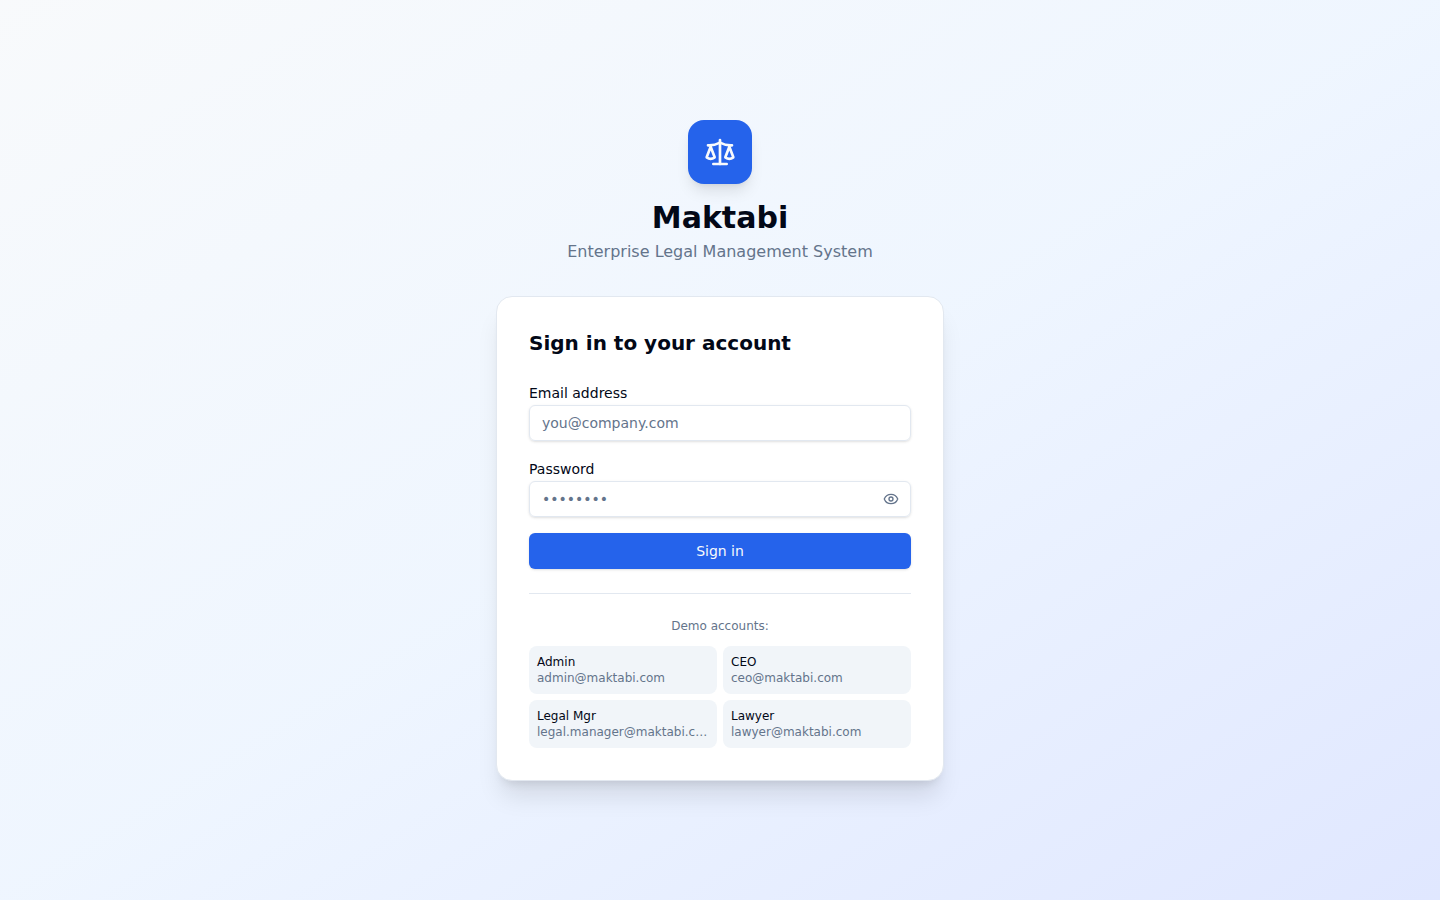
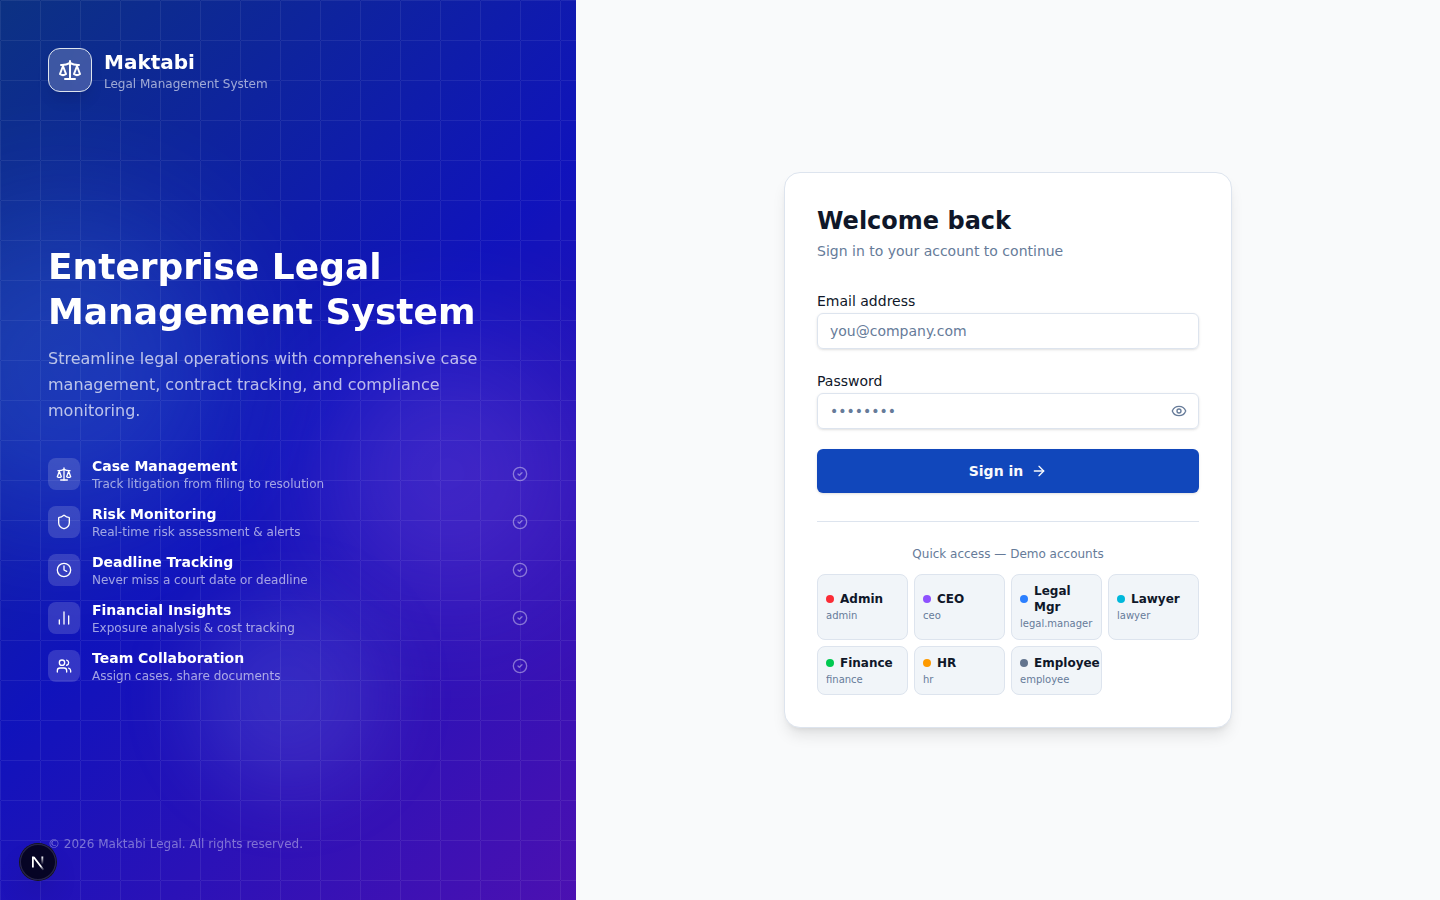
Capture screenshots of all 18 page UIs and update documentation
- Replace 10 old screenshots with 18 comprehensive screenshots
- Add screenshots for: investigations/new, consultations/new, contracts/new,
  financial/new, calendar, brands, notifications, profile
- Rename screenshots with consistent numbering (01-18)
- Update README.md screenshot references
- Add docs/SCREENSHOTS.md with detailed page descriptions

Agent-Logs-Url: https://github.com/MUSTAQ-AHAMMAD/maktabi/sessions/12325ed6-12a1-4cc4-8910-ca32c1b341f8

diff --git a/docs/SCREENSHOTS.md b/docs/SCREENSHOTS.md
@@ -1,0 +1,150 @@
+# Maktabi — UI Screenshots
+
+Complete visual reference for every page in the Maktabi Legal Management System.
+
+> **Note:** Screenshots captured at 1440×900 viewport. Pages that fetch data from
+> the backend API may show empty states when the backend is not running.
+
+---
+
+## 1. Login Page (`/login`)
+
+![Login Page](screenshots/01-login.png)
+
+The login screen features the Maktabi branding on the left with feature highlights (Case Management, Risk Monitoring, Deadline Tracking, Financial Insights, Team Collaboration). The right panel contains email/password fields and quick-access demo account buttons for all roles.
+
+---
+
+## 2. Dashboard (`/dashboard`)
+
+![Dashboard](screenshots/02-dashboard.png)
+
+The role-based dashboard shows KPI cards (Total Cases, Active Cases, Contracts, Pending Consultations), Financial Exposure summary, and Risk Distribution chart. Data varies by user role.
+
+---
+
+## 3. Litigation — Case List (`/litigation`)
+
+![Litigation Cases](screenshots/03-litigation-list.png)
+
+Browse, search, and filter all litigation cases with columns for case number, type, status, court, risk level, and assigned lawyer. The **+ New Case** button opens the creation form.
+
+---
+
+## 4. Litigation — New Case (`/litigation/new`)
+
+![New Litigation Case](screenshots/04-litigation-new.png)
+
+Multi-field form to register a new litigation case with case number, type, court, assigned lawyer, risk level, financial exposure, filing date, and description.
+
+---
+
+## 5. Investigations — List (`/investigations`)
+
+![Investigations](screenshots/05-investigations-list.png)
+
+HR disciplinary investigation tracker with severity classification, confidentiality controls, and status workflow tracking.
+
+---
+
+## 6. Investigations — New (`/investigations/new`)
+
+![New Investigation](screenshots/06-investigations-new.png)
+
+Create a new investigation with subject, investigation type, severity classification, assigned investigator, and confidentiality settings.
+
+---
+
+## 7. Consultations — List (`/consultations`)
+
+![Consultations](screenshots/07-consultations-list.png)
+
+Legal opinion request management with SLA tracking, priority indicators, and knowledge tagging for efficient legal guidance.
+
+---
+
+## 8. Consultations — New (`/consultations/new`)
+
+![New Consultation](screenshots/08-consultations-new.png)
+
+Submit a new legal consultation request with topic, priority level, requesting department, deadline, and detailed description.
+
+---
+
+## 9. Contracts — List (`/contracts`)
+
+![Contracts](screenshots/09-contracts-list.png)
+
+Full contract lifecycle management — view active contracts, expiry alerts, contract value, and multi-step approval status.
+
+---
+
+## 10. Contracts — New (`/contracts/new`)
+
+![New Contract](screenshots/10-contracts-new.png)
+
+Create a new contract with contracting parties, contract value, start/end dates, type, and approval workflow configuration.
+
+---
+
+## 11. Financial Executions — List (`/financial`)
+
+![Financial](screenshots/11-financial-list.png)
+
+Track financial execution orders with amount tracking, payment recording, and progress monitoring across all legal matters.
+
+---
+
+## 12. Financial Executions — New (`/financial/new`)
+
+![New Financial Record](screenshots/12-financial-new.png)
+
+Create a new financial execution record with execution amount, type classification, linked case reference, and payment schedule details.
+
+---
+
+## 13. Calendar (`/calendar`)
+
+![Calendar](screenshots/13-calendar.png)
+
+Monthly calendar view displaying hearings, contract expiries, investigation deadlines, and other important legal dates. Supports toggle between month grid and list views.
+
+---
+
+## 14. User Directory (`/users`)
+
+![Users](screenshots/14-users.png)
+
+Admin view of all platform users with name, email, role, and status. Supports search, filtering by role, and user management actions.
+
+---
+
+## 15. Brands Management (`/brands`)
+
+![Brands](screenshots/15-brands.png)
+
+Manage organizational brands (IBRAQ, MATCH, FEELIN, SALFA). Each brand can have cases, contracts, and other entities associated with it for multi-brand legal operations.
+
+---
+
+## 16. Notifications (`/notifications`)
+
+![Notifications](screenshots/16-notifications.png)
+
+Notification center with real-time alerts for case updates, approaching deadlines, workflow state changes, and assigned task notifications. Supports click-through navigation to related entities.
+
+---
+
+## 17. Audit Log (`/audit`)
+
+![Audit Log](screenshots/17-audit.png)
+
+Chronological audit trail of all system actions including user activity, data changes, and workflow transitions. Accessible to Admin and CEO roles with filtering and search capabilities.
+
+---
+
+## 18. Profile (`/profile`)
+
+![Profile](screenshots/18-profile.png)
+
+User profile page for viewing and editing personal information, notification preferences, and account settings.

diff --git a/README.md b/README.md
@@ -295,7 +295,7 @@ The login screen features the Maktabi branding, email/password fields, and quick
 The role-based dashboard shows KPI cards (Total Cases, Active Cases, Contracts, Pending Consultations), Financial Exposure summary, and Risk Distribution chart.
 
 ### Litigation Cases
-![Litigation Cases](docs/screenshots/03-litigation.png)
+![Litigation Cases](docs/screenshots/03-litigation-list.png)
 
 Browse, search, and filter all litigation cases. The top-right **+ New Case** button opens the case creation form.
 
@@ -305,34 +305,74 @@ Browse, search, and filter all litigation cases. The top-right **+ New Case** bu
 Multi-field form to register a new litigation case with case number, type, court, assigned lawyer, risk level, and more.
 
 ### Investigations
-![Investigations](docs/screenshots/05-investigations.png)
+![Investigations](docs/screenshots/05-investigations-list.png)
 
 HR disciplinary investigation tracker with severity classification and confidentiality controls.
 
+### New Investigation Form
+![New Investigation](docs/screenshots/06-investigations-new.png)
+
+Create a new investigation with subject, type, severity classification, and confidentiality settings.
+
 ### Consultations
-![Consultations](docs/screenshots/06-consultations.png)
+![Consultations](docs/screenshots/07-consultations-list.png)
 
 Legal opinion request management with SLA tracking and knowledge tagging.
 
+### New Consultation Form
+![New Consultation](docs/screenshots/08-consultations-new.png)
+
+Submit a new legal consultation request with topic, priority, and department details.
+
 ### Contracts
-![Contracts](docs/screenshots/07-contracts.png)
+![Contracts](docs/screenshots/09-contracts-list.png)
 
 Full contract lifecycle management — view active contracts, expiry alerts, and multi-step approval status.
 
+### New Contract Form
+![New Contract](docs/screenshots/10-contracts-new.png)
+
+Create a new contract with parties, value, dates, and approval workflow configuration.
+
 ### Financial Executions
-![Financial](docs/screenshots/08-financial.png)
+![Financial](docs/screenshots/11-financial-list.png)
 
 Track financial execution orders, record payments, and monitor payment progress.
 
+### New Financial Record Form
+![New Financial Record](docs/screenshots/12-financial-new.png)
+
+Create a new financial execution record with amount, type, and linked case details.
+
+### Calendar
+![Calendar](docs/screenshots/13-calendar.png)
+
+Monthly calendar view showing hearings, contract expiries, and other important legal deadlines.
+
 ### User Directory
-![Users](docs/screenshots/09-users.png)
+![Users](docs/screenshots/14-users.png)
 
 Admin view of all platform users with their roles and contact details.
 
+### Brands Management
+![Brands](docs/screenshots/15-brands.png)
+
+Manage organizational brands (IBRAQ, MATCH, FEELIN, SALFA) with brand-specific case filtering.
+
+### Notifications
+![Notifications](docs/screenshots/16-notifications.png)
+
+Notification center with real-time alerts for case updates, deadlines, and workflow actions.
+
 ### Audit Log
-![Audit Log](docs/screenshots/10-audit.png)
+![Audit Log](docs/screenshots/17-audit.png)
 
 Chronological audit trail of all system actions, accessible to Admin and CEO roles.
+
+### Profile
+![Profile](docs/screenshots/18-profile.png)
+
+User profile page for viewing and editing personal information and preferences.
 
 ---
 
